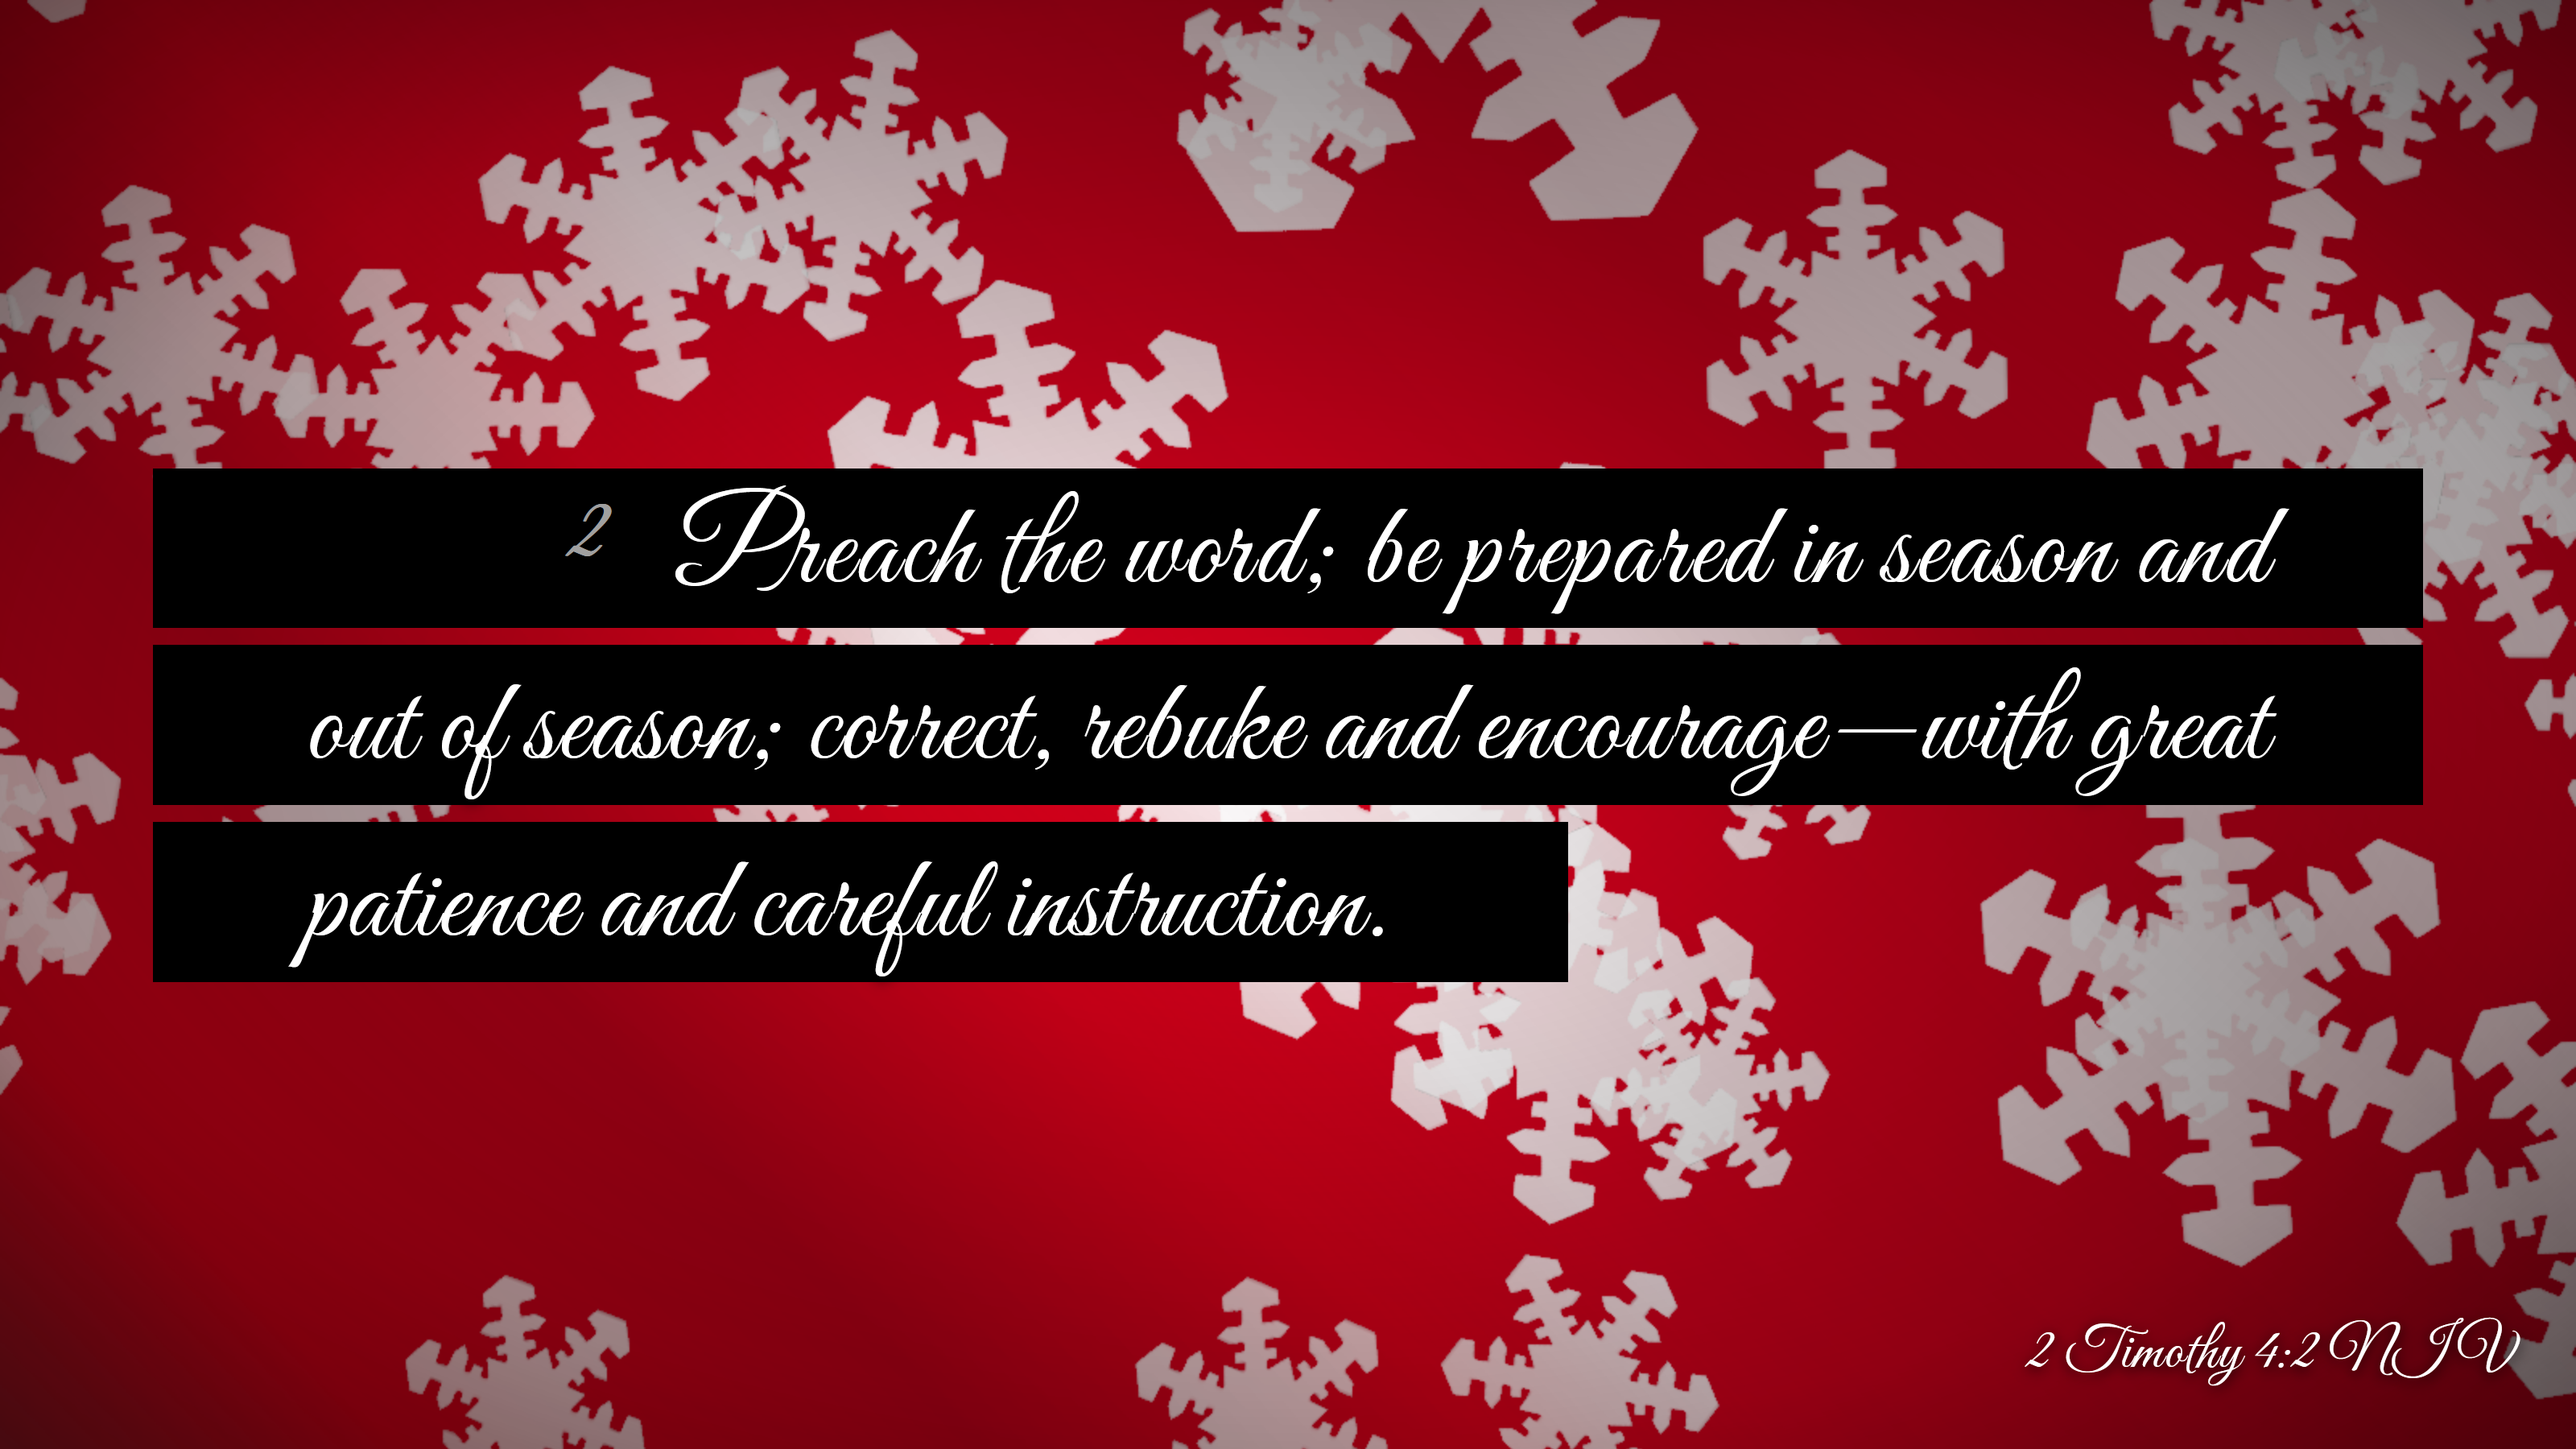
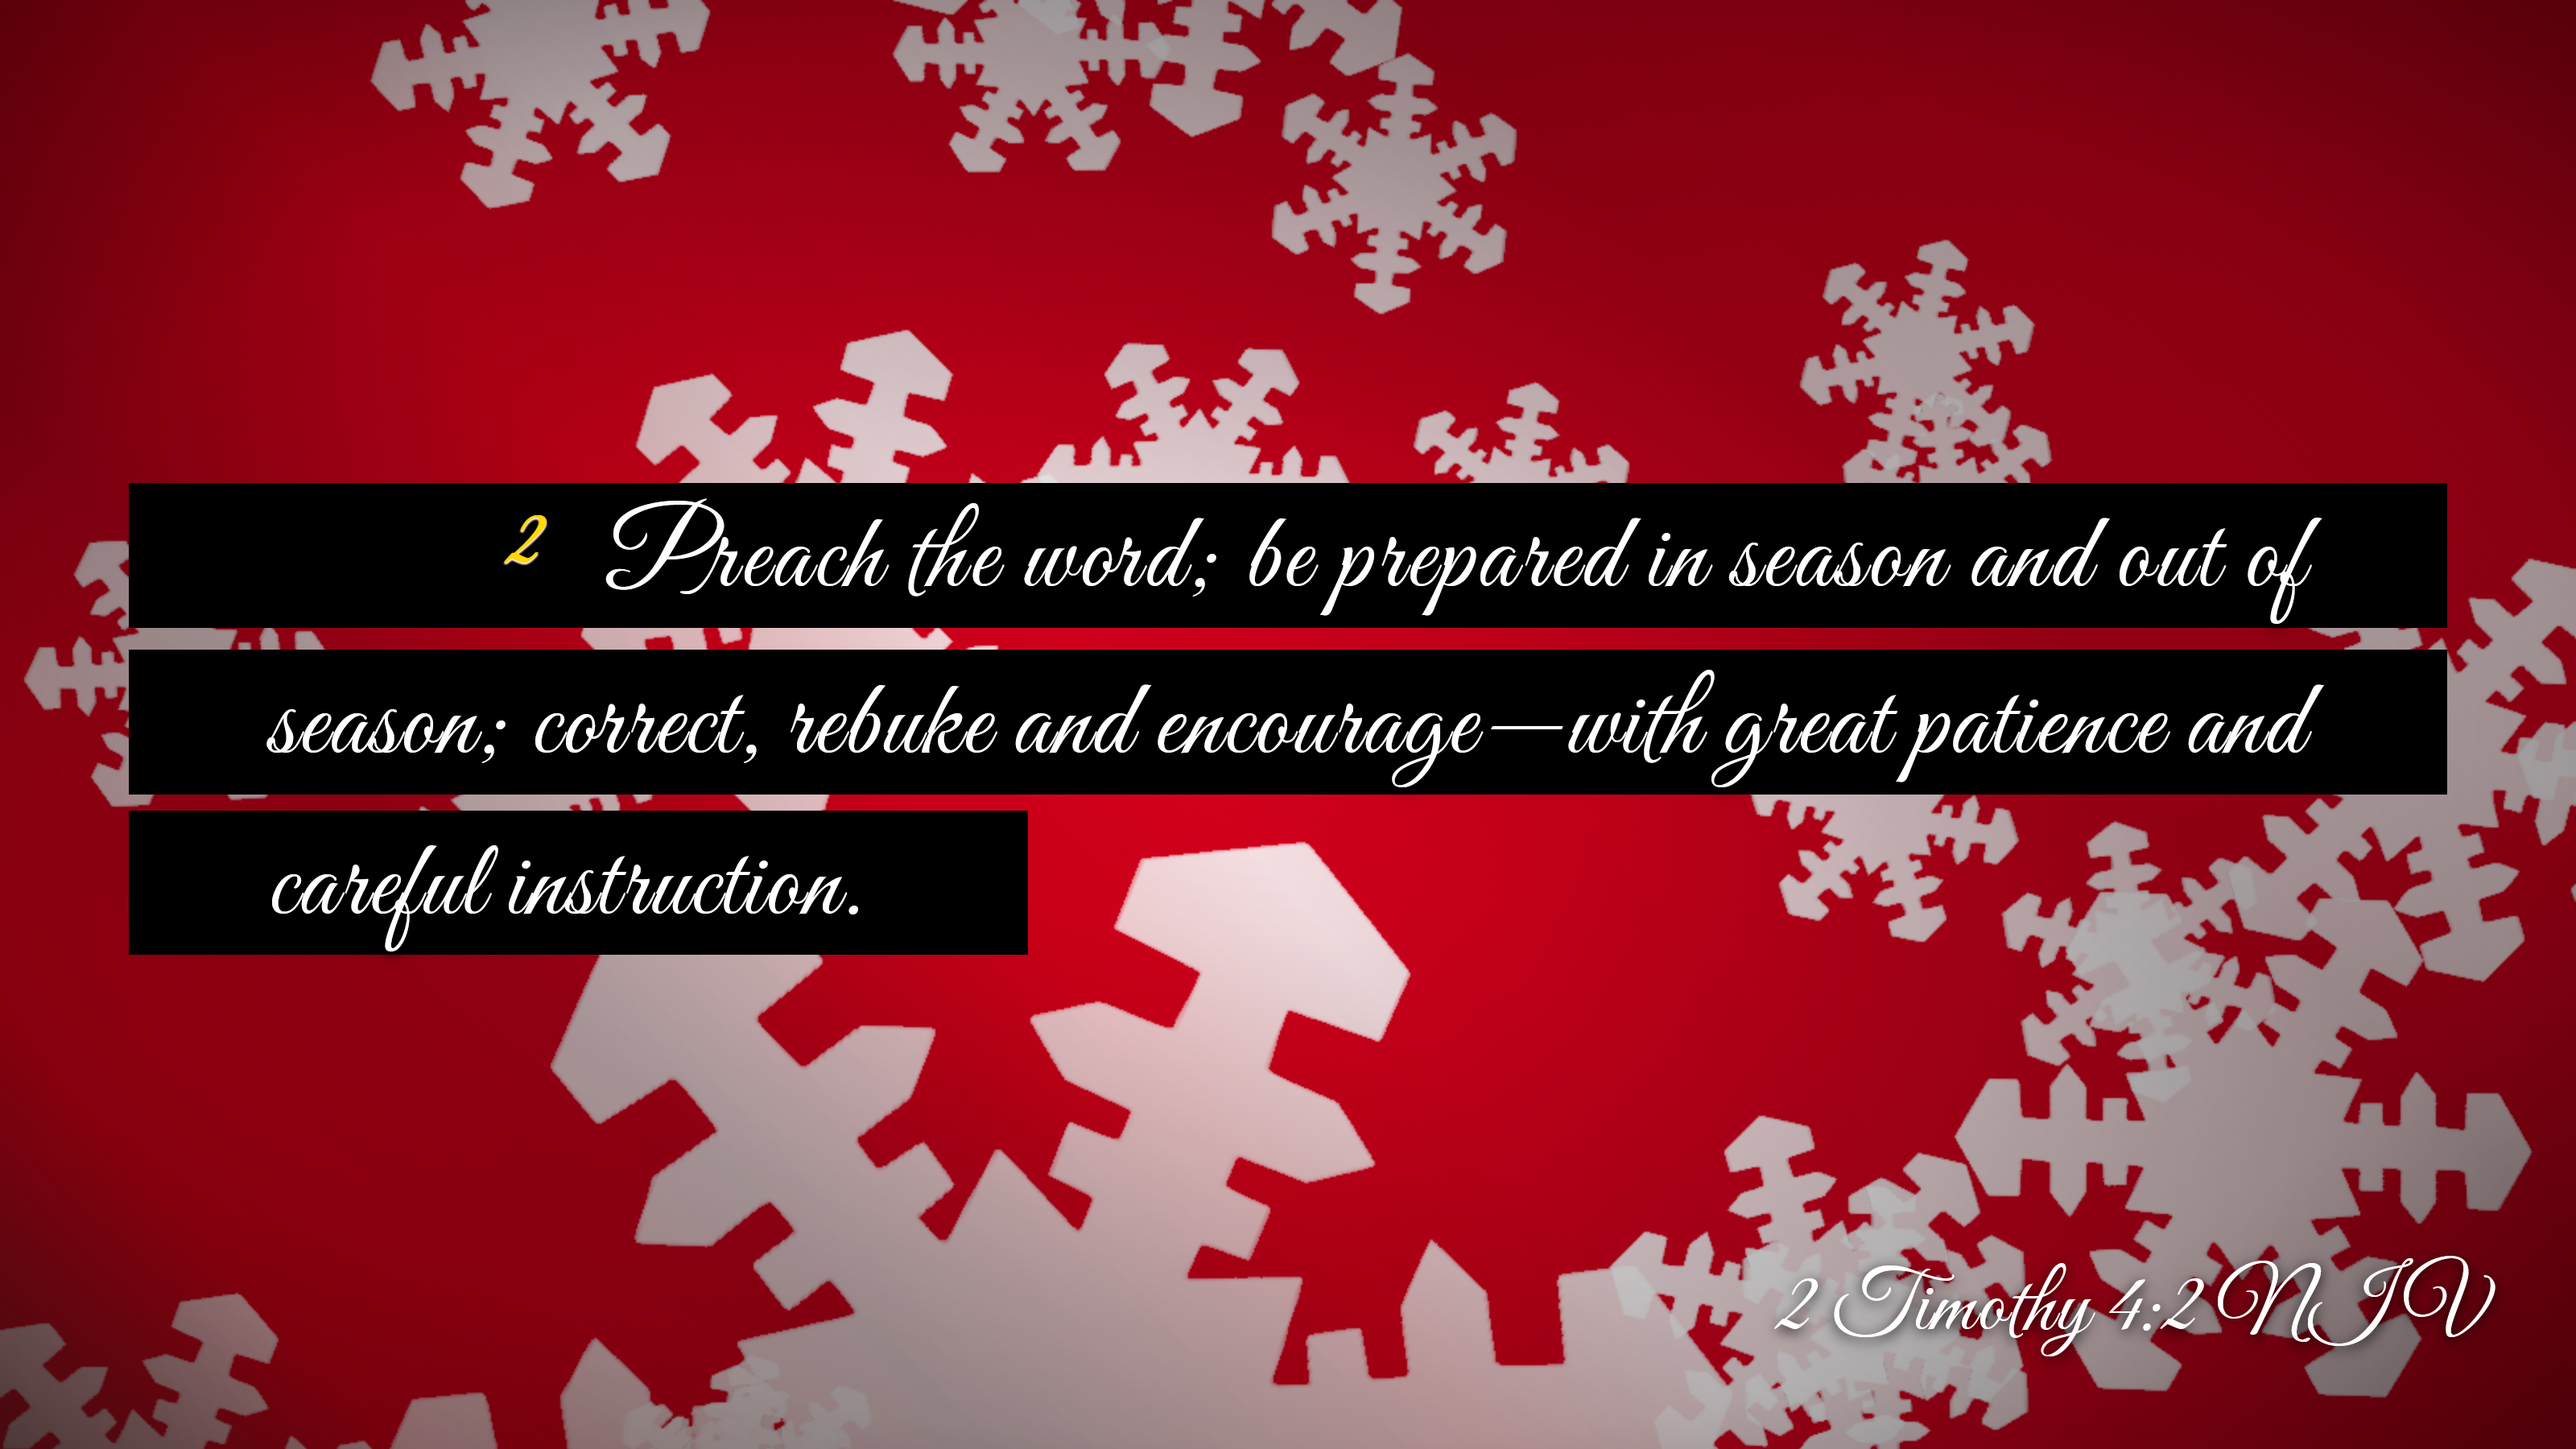
Snow final?

diff --git a/backgrounds/christmas-snow.html b/backgrounds/christmas-snow.html
@@ -55,7 +55,7 @@
 
         // Snow particle setup
         const snowParticles = [];
-        const particleCount = 200;
+        const particleCount = 120;
         const geometry = new THREE.PlaneGeometry(0.5, 0.5); // Smaller particles
         const textureLoader = new THREE.TextureLoader();
         //const snowflakeTexture = textureLoader.load('https://upload.wikimedia.org/wikipedia/commons/thumb/5/58/Snowflake.svg/900px-Snowflake.svg.png');
@@ -90,7 +90,7 @@
             );
             particle.userData = {
                 wiggleOffset: Math.random() * Math.PI * 2,
-                speed: Math.random() * 0.01 + 0.01,
+                speed: Math.random() * 0.01 + 0.02,
 				rotation: (Math.random() * 5 - 2.5) * 0.0005// Random rotation
 				
             };
@@ -103,9 +103,9 @@
             requestAnimationFrame(animate);
 
             snowParticles.forEach(particle => {
-                particle.position.y -= particle.userData.speed / 30;
+                particle.position.y -= particle.userData.speed / 50;
                 particle.position.x += Math.sin(particle.userData.wiggleOffset) * 0.0003;
-                particle.userData.wiggleOffset += particle.userData.speed;
+                particle.userData.wiggleOffset += particle.userData.speed / 2;
 				
 				particle.rotation.z = particle.rotation.z + particle.userData.rotation;
 				 

diff --git a/main.css b/main.css
@@ -164,7 +164,7 @@ img[src="about:blank"] {
     width: 100%;
     height: auto;
     display: block;
-    border-radius: 1.5em; /* Rounded corners */
+    border-radius: 0.5em; /* Rounded corners */
     border: 0.2em solid #000; /* Added border */
 	padding: 0.5em;
 }

diff --git a/backgrounds/christmas-snow.css b/backgrounds/christmas-snow.css
@@ -29,6 +29,11 @@ body {
 	padding-top: 0.1em;
 }
 
+#verse .label {
+	color: #ffd700;
+	text-shadow: 0 1px 1px #fff, 0 1px 1px brown;
+}
+
 
 /* background */
 :root {
